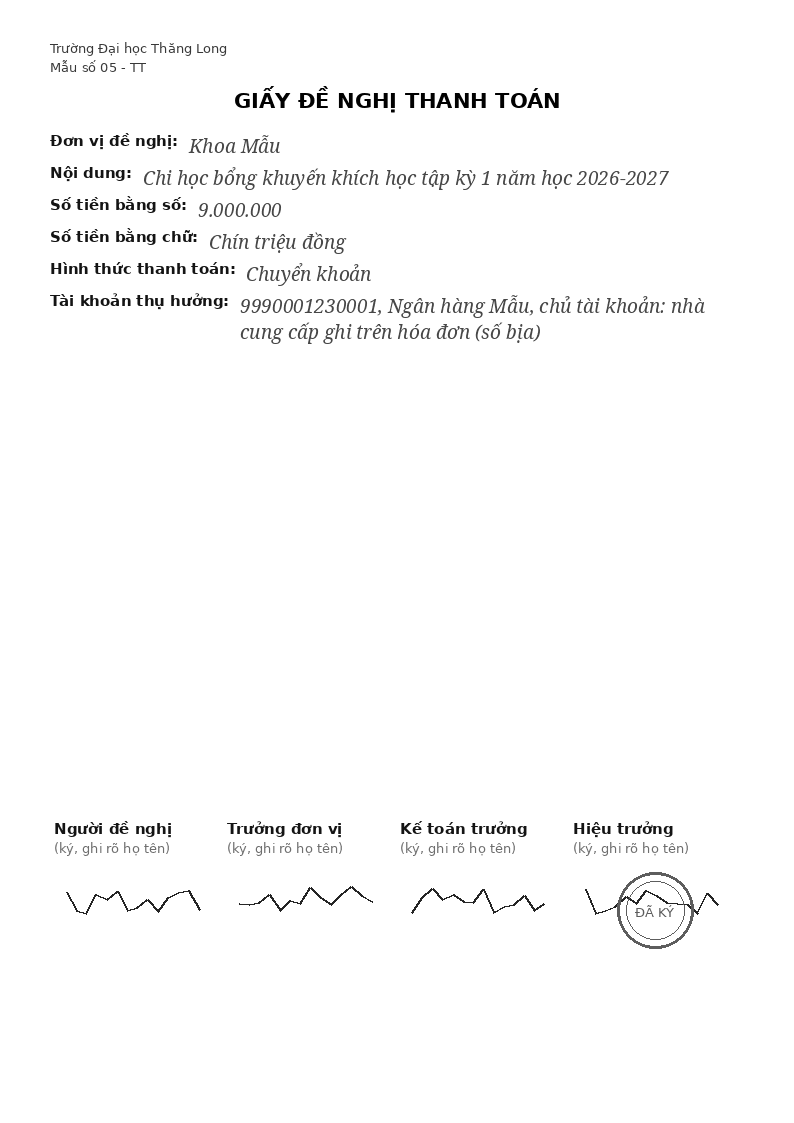
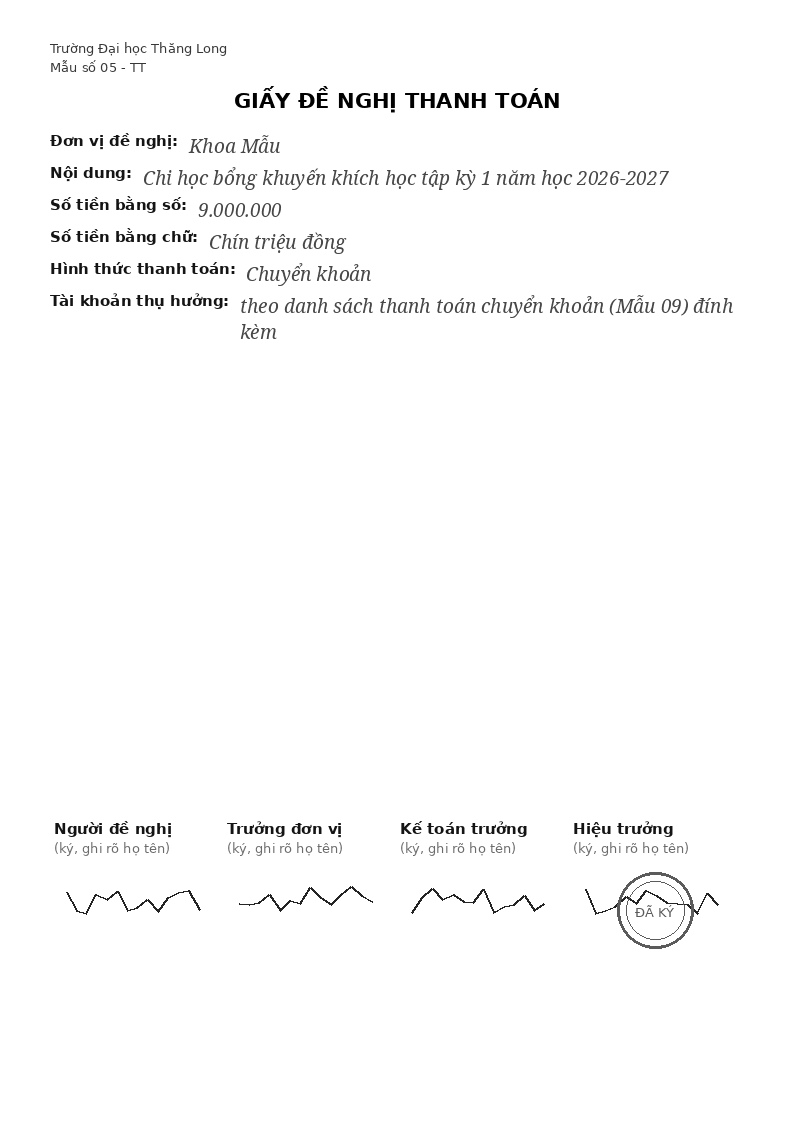
test(cases): hb-001 và td-001 ghi tài khoản theo danh sách đính kèm

Changed region(s): [[0.3023, 0.2493, 0.9068, 0.3117]]

diff --git a/cases/dev/gen_cases.py b/cases/dev/gen_cases.py
@@ -401,10 +401,10 @@ def cv(title, rows=None, body=None, lines=None, sigs=None, table=None):
     return sp
 
 
-def dntt_chung(noidung, so_tien, chu, pay="Chuyển khoản"):
+def dntt_chung(noidung, so_tien, chu, pay="Chuyển khoản", ds=False):
     rows = [("Đơn vị đề nghị", "Khoa Mẫu", "h"), ("Nội dung", noidung, "h"), ("Số tiền bằng số", so_tien, "h"), ("Số tiền bằng chữ", chu, "h"), ("Hình thức thanh toán", pay, "h")]
     if pay == "Chuyển khoản":
-        rows.append(("Tài khoản thụ hưởng", "9990001230001, Ngân hàng Mẫu, chủ tài khoản: nhà cung cấp ghi trên hóa đơn (số bịa)", "h"))
+        rows.append(("Tài khoản thụ hưởng", "theo danh sách thanh toán chuyển khoản (Mẫu 09) đính kèm" if ds else "9990001230001, Ngân hàng Mẫu, chủ tài khoản: nhà cung cấp ghi trên hóa đơn (số bịa)", "h"))
     return cv("GIẤY ĐỀ NGHỊ THANH TOÁN", rows=rows, lines=["Trường Đại học Thăng Long", "Mẫu số 05 - TT"], sigs=[("Người đề nghị", True, False), ("Trưởng đơn vị", True, False), ("Kế toán trưởng", True, False), ("Hiệu trưởng", True, True)])
 
 
@@ -467,7 +467,7 @@ def _():
 def _():
     nd = "Chi học bổng khuyến khích học tập kỳ 1 năm học 2026-2027"
     return ("Loại nghiệp vụ: học bổng. Ngày xét: 15/10/2026. Kiểm giúp luôn mức học bổng tối đa mỗi sinh viên theo quy chế xem có vượt không.", [
-        dntt_chung(nd, "9.000.000", "Chín triệu đồng"),
+        dntt_chung(nd, "9.000.000", "Chín triệu đồng", ds=True),
         ds_ck09("9.000.000", [["1", "Sinh viên Mẫu A", "4.500.000"], ["2", "Sinh viên Mẫu B", "4.500.000"]]),
         to_trinh_chung(nd, "9.000.000"),
         py_chung(nd),
@@ -562,7 +562,7 @@ def _():
 @case("td-001")
 def _():
     return ("Loại nghiệp vụ: tuyển dụng. Ngày xét: 18/06/2026.", [
-        dntt_chung("Chi phí chấm thi và hướng dẫn kỳ tuyển dụng giảng viên đợt 1/2026", "4.000.000", "Bốn triệu đồng"),
+        dntt_chung("Chi phí chấm thi và hướng dẫn kỳ tuyển dụng giảng viên đợt 1/2026", "4.000.000", "Bốn triệu đồng", ds=True),
         ds_ck09("4.000.000", [["1", "Nguyễn Văn Mẫu", "2.000.000"], ["2", "Trần Thị Thử", "2.000.000"]]),
         cv("BẢNG THANH TOÁN TIỀN CHẤM THI VÀ HƯỚNG DẪN", table=dict(head=["STT", "Nội dung", "Số tiền (đ)"], rows=[["1", "Chấm thi vòng 1", "2.000.000"], ["2", "Hướng dẫn thi vòng 2", "2.000.000"], ["", "Tổng", "4.000.000"]], w=[50, 450, 194])),
     ])
